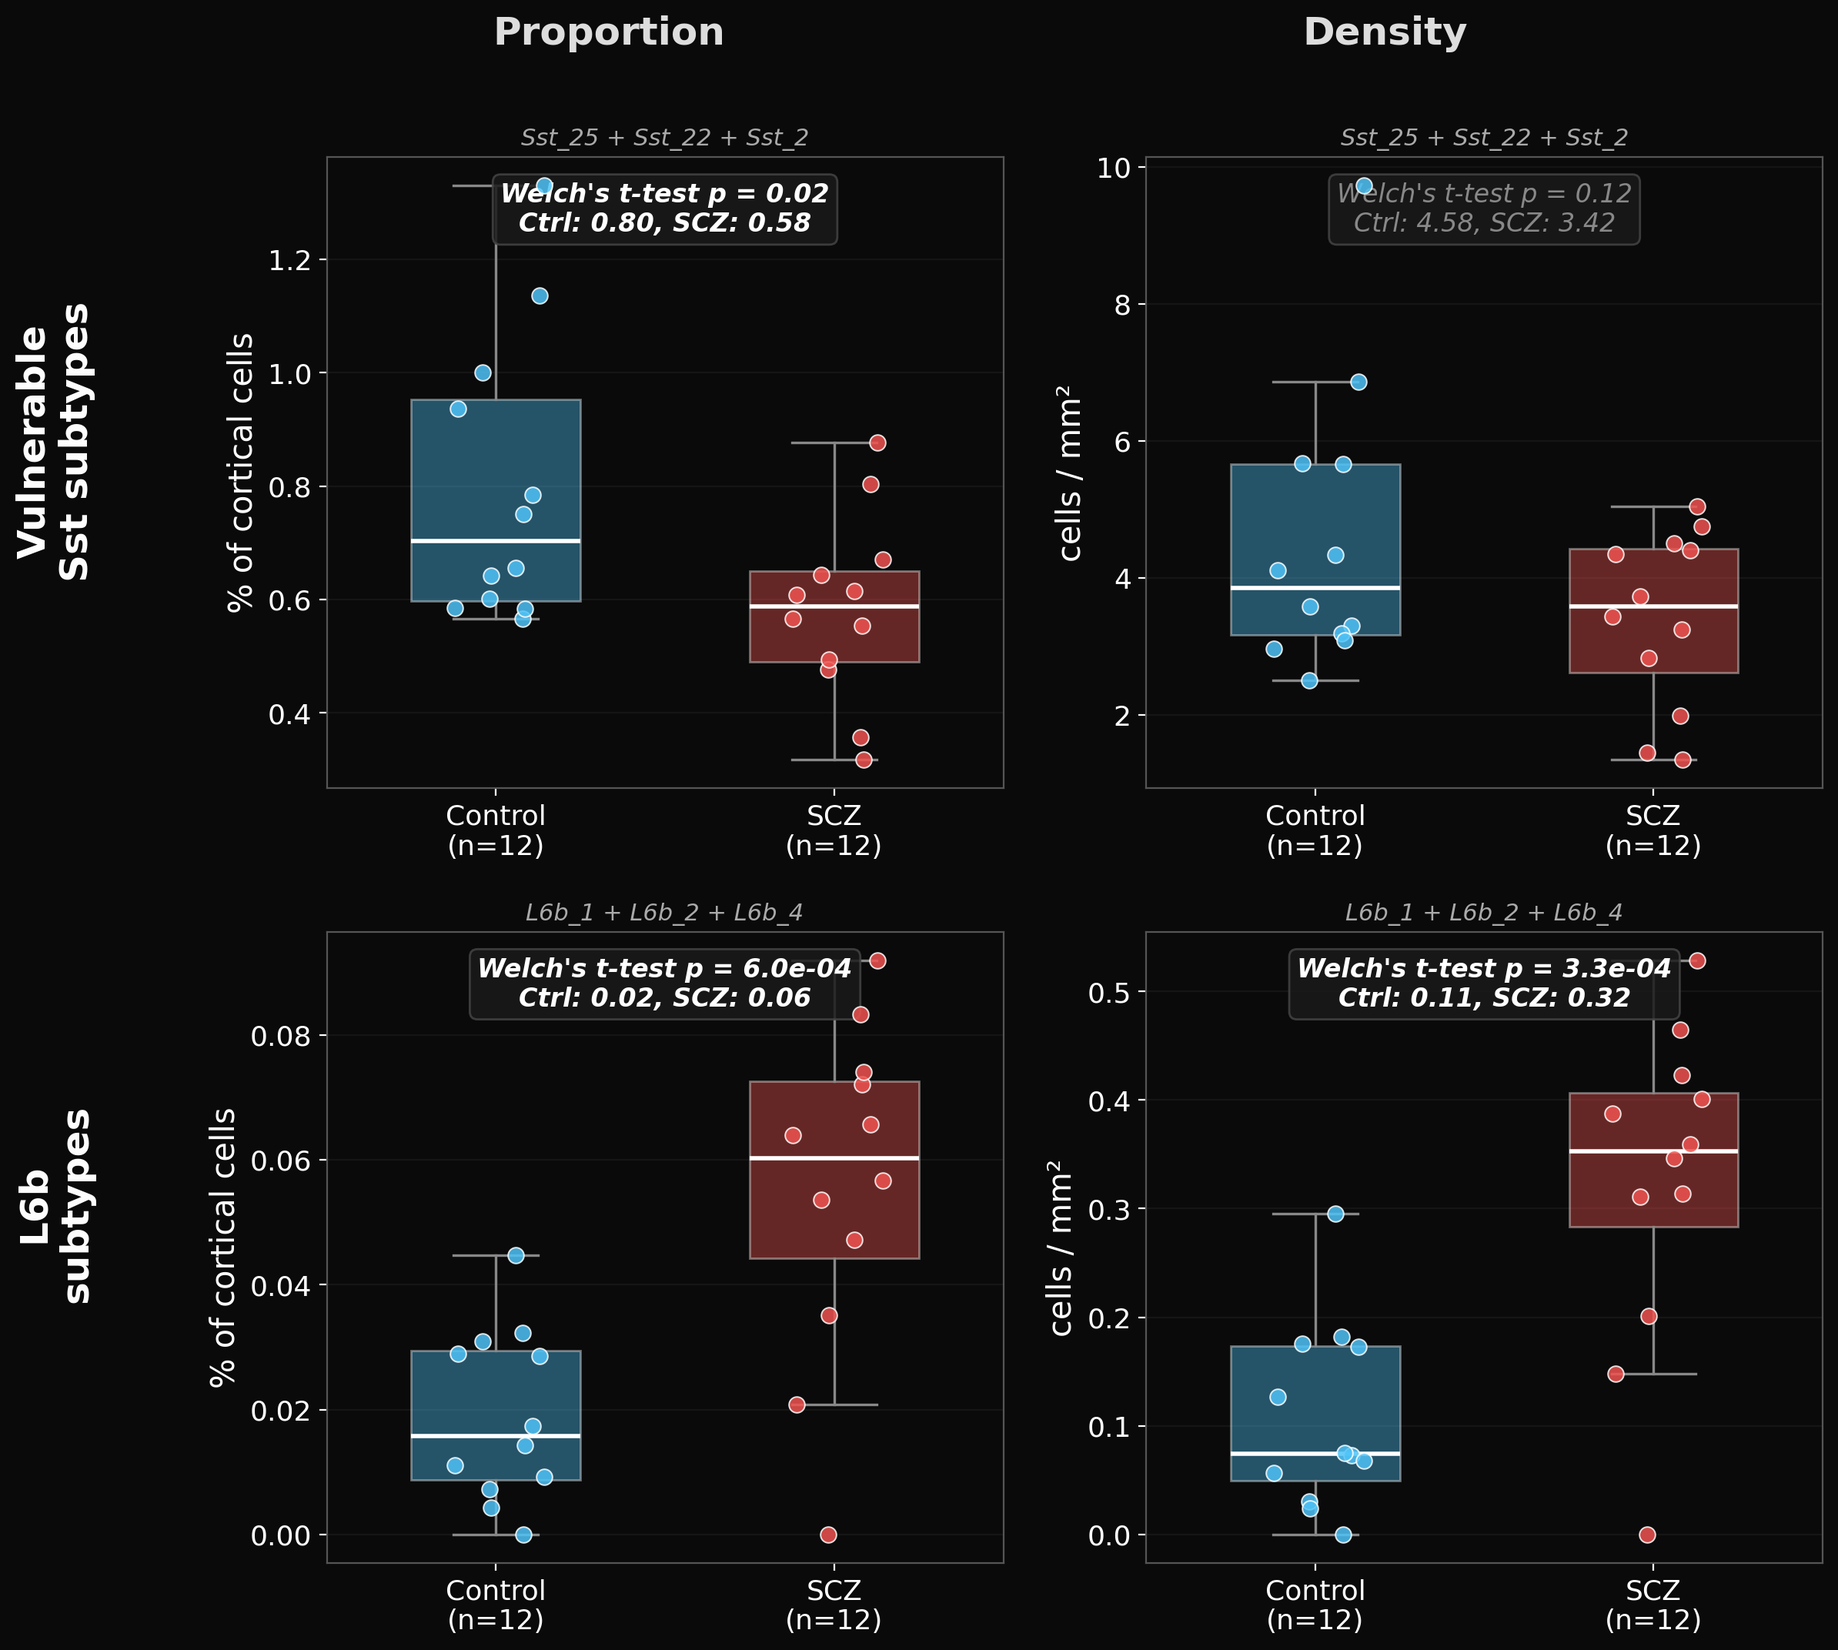
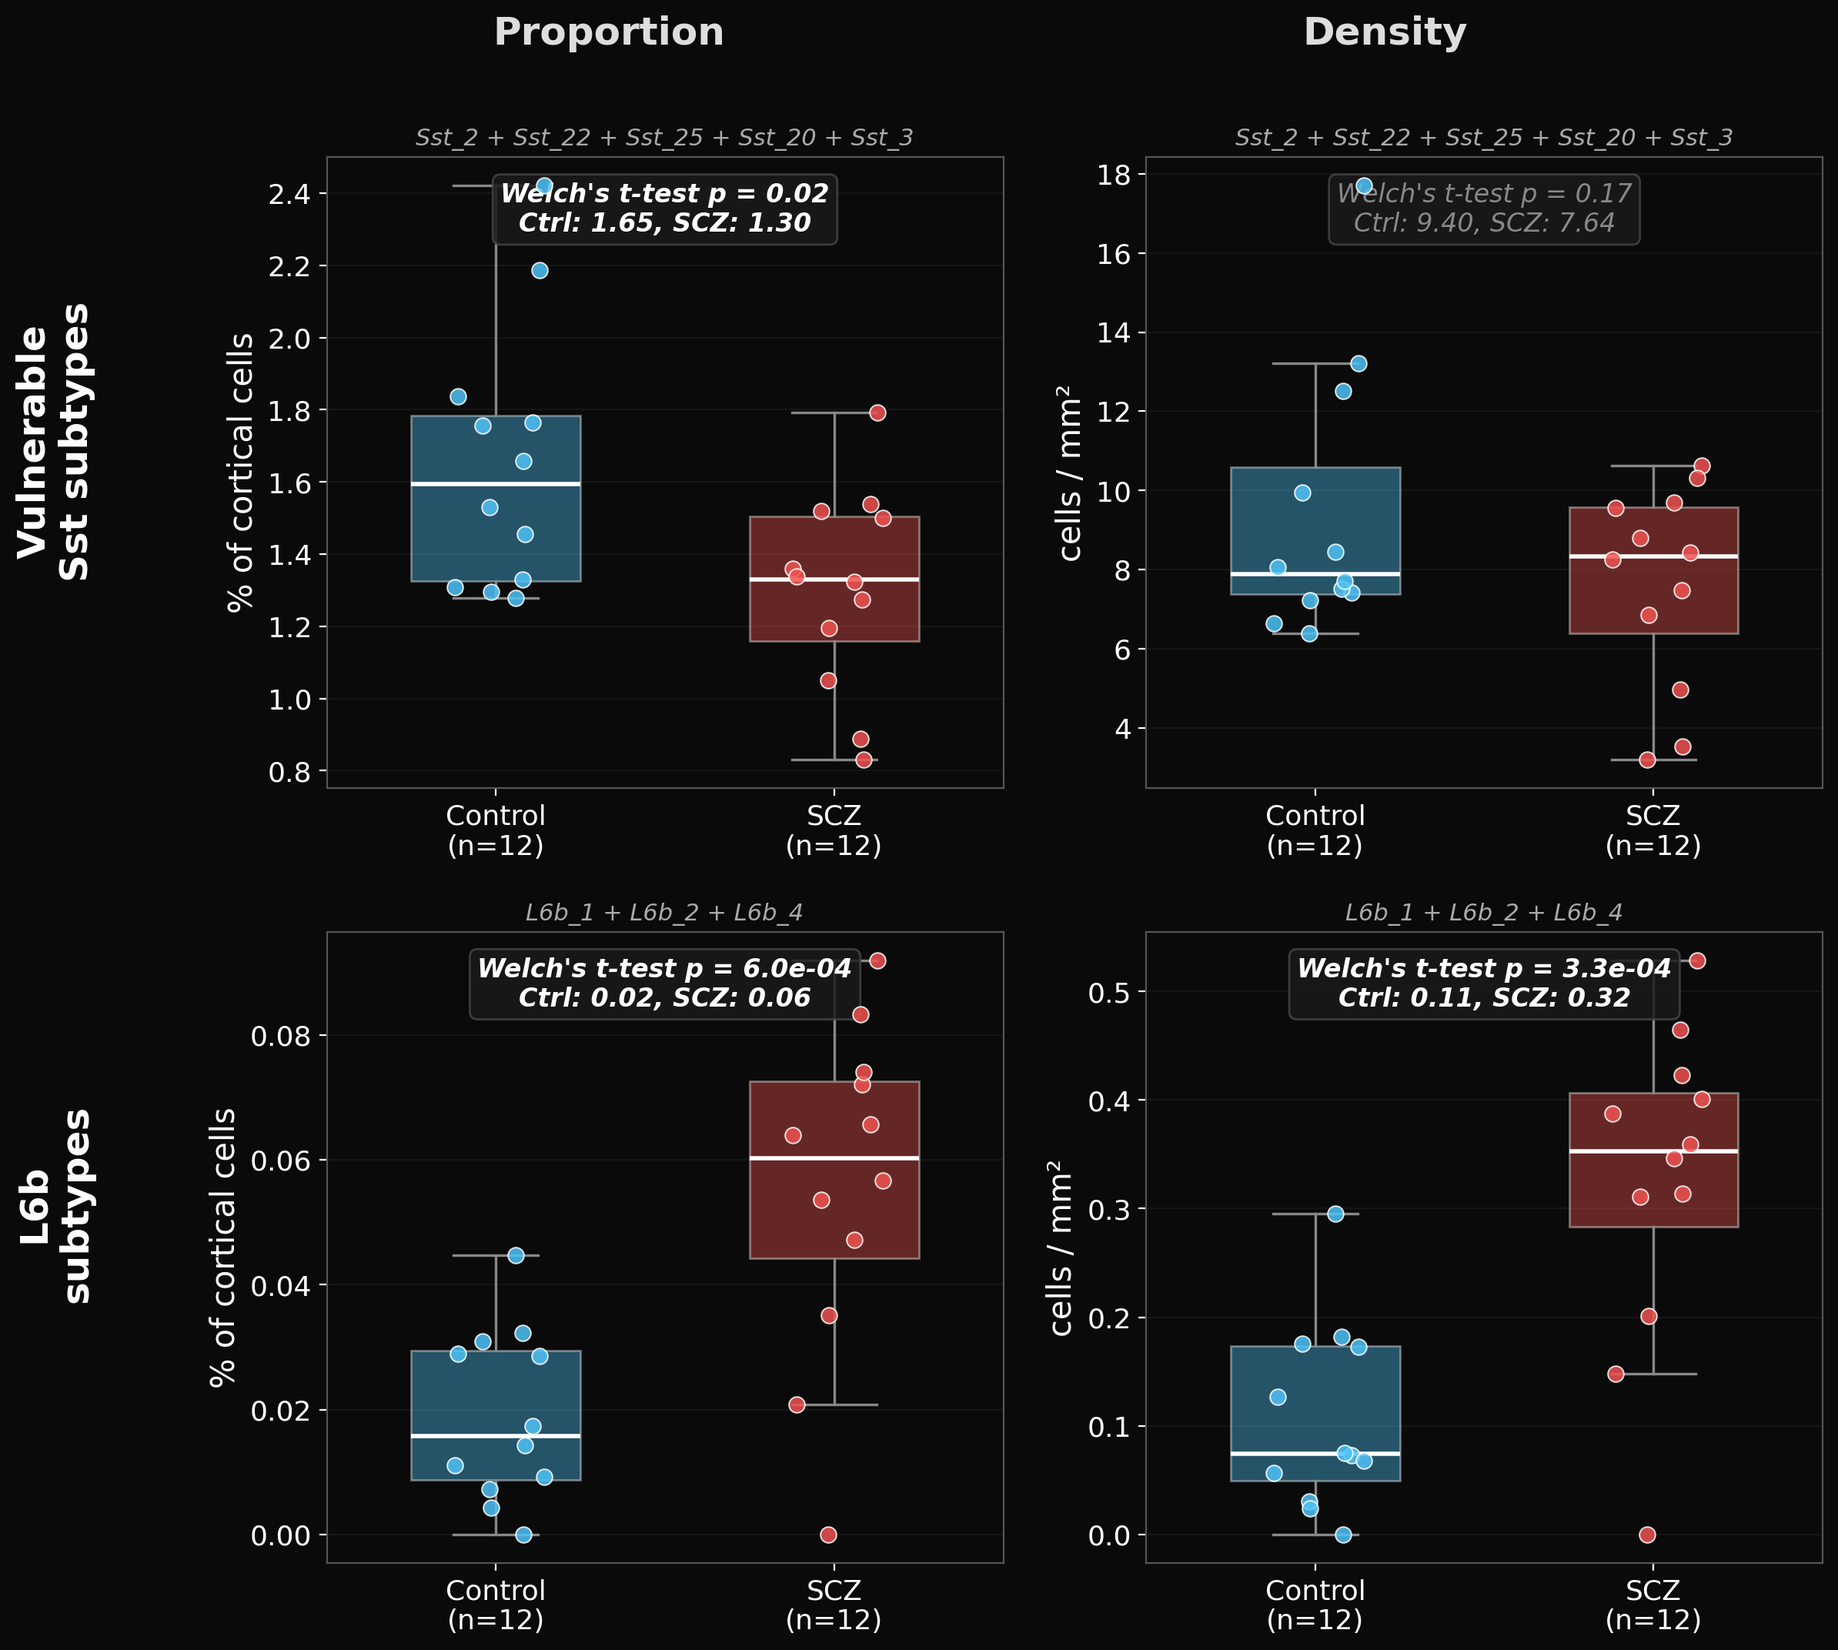
Add subclass density concordance plot and track all concordance figures
- New subclass-level snRNAseq vs Xenium density scatter (r=0.37 overall,
  r=0.65 neuronal, p=0.003) — stronger neuronal concordance than supertype
- Update aggregated boxplots to include all 5 vulnerable Sst subtypes
  (Sst_2 + Sst_22 + Sst_25 + Sst_20 + Sst_3)
- Track all figures referenced by cross_platform_concordance.md via
  gitignore exceptions (density, merfish_benchmark, root-level pngs)
- Insert subclass density section (2.1) before supertype results in
  concordance doc; renumber subsequent figures

diff --git a/code/analysis/plot_density_vs_snrnaseq_subclass.py b/code/analysis/plot_density_vs_snrnaseq_subclass.py
@@ -1,0 +1,218 @@
+#!/usr/bin/env python3
+"""
+Scatter plot: snRNAseq meta-analysis betas vs Xenium density log2FC at SUBCLASS level.
+
+Aggregates supertype-level data to subclass by summing densities, then computes
+logFC and correlates with aggregated snRNAseq betas (inverse-variance weighted).
+
+Input:
+  output/density_analysis/density_per_sample_supertype.csv
+  data/nicole_scz_snrnaseq_betas/scz_coefs.xlsx
+
+Output:
+  output/density_analysis/snrnaseq_vs_density_subclass.png
+  output/density_analysis/snrnaseq_vs_density_subclass.csv
+"""
+
+import os
+import sys
+import numpy as np
+import pandas as pd
+import matplotlib.pyplot as plt
+from scipy.stats import pearsonr, ttest_ind
+
+sys.path.insert(0, os.path.dirname(os.path.abspath(__file__)))
+from config import (
+    BASE_DIR, EXCLUDE_SAMPLES, INFER_CLASS_COLORS as CLASS_COLORS,
+    infer_class, BG_COLOR,
+)
+
+DENSITY_RAW = os.path.join(BASE_DIR, "output", "density_analysis",
+                            "density_per_sample_supertype.csv")
+NICOLE_PATH = os.path.join(BASE_DIR, "data", "nicole_scz_snrnaseq_betas",
+                            "scz_coefs.xlsx")
+OUTPUT_DIR = os.path.join(BASE_DIR, "output", "density_analysis")
+
+
+def supertype_to_subclass(st):
+    """Map supertype name to subclass by stripping trailing _N."""
+    # Handle multi-word supertypes like "L2/3 IT_1" -> "L2/3 IT"
+    # and "Sst Chodl_1" -> "Sst Chodl"
+    parts = st.rsplit("_", 1)
+    if len(parts) == 2 and parts[1].isdigit():
+        return parts[0]
+    return st
+
+
+def main():
+    # ── Load per-sample supertype densities ──
+    raw = pd.read_csv(DENSITY_RAW)
+    raw = raw[raw["region"] == "cortical"]
+    raw = raw[~raw["sample_id"].isin(EXCLUDE_SAMPLES)]
+    raw["subclass"] = raw["supertype"].apply(supertype_to_subclass)
+    print(f"Raw data: {len(raw)} rows, {raw['sample_id'].nunique()} samples, "
+          f"{raw['subclass'].nunique()} subclasses")
+
+    # Aggregate density to subclass level per sample
+    sub_density = (raw.groupby(["sample_id", "diagnosis", "subclass"])
+                   .agg(density_per_mm2=("density_per_mm2", "sum"),
+                        count=("count", "sum"),
+                        area_mm2=("area_mm2", "first"))
+                   .reset_index())
+
+    # Compute logFC per subclass
+    results = []
+    for sc in sorted(sub_density["subclass"].unique()):
+        sc_data = sub_density[sub_density["subclass"] == sc]
+        ctrl = sc_data[sc_data["diagnosis"] == "Control"]["density_per_mm2"]
+        scz = sc_data[sc_data["diagnosis"] == "SCZ"]["density_per_mm2"]
+
+        if len(ctrl) < 3 or len(scz) < 3:
+            continue
+
+        ctrl_mean = ctrl.mean()
+        scz_mean = scz.mean()
+        logFC = np.log(scz_mean / ctrl_mean) if ctrl_mean > 0 else np.nan
+
+        # Welch's t-test on log-transformed densities
+        _, pval = ttest_ind(np.log1p(ctrl), np.log1p(scz), equal_var=False)
+
+        # SE from log-scale pooled
+        log_vals = np.log1p(sc_data["density_per_mm2"])
+        se = log_vals.std() / np.sqrt(len(log_vals))
+
+        results.append({
+            "subclass": sc,
+            "ctrl_mean_density": ctrl_mean,
+            "scz_mean_density": scz_mean,
+            "logFC_density": logFC,
+            "pval_density": pval,
+            "se_density": se,
+            "n_ctrl": len(ctrl),
+            "n_scz": len(scz),
+            "class": infer_class(sc),
+        })
+
+    density_df = pd.DataFrame(results)
+    print(f"Density results: {len(density_df)} subclasses")
+
+    # ── Aggregate snRNAseq betas to subclass (inverse-variance weighted mean) ──
+    nicole = pd.read_excel(NICOLE_PATH)
+    nicole["subclass"] = nicole["CellType"].apply(supertype_to_subclass)
+    nicole["w"] = 1 / (nicole["se"] ** 2)
+
+    snrna_sub = []
+    for sc, grp in nicole.groupby("subclass"):
+        w = grp["w"].values
+        beta = grp["estimate"].values
+        se_vals = grp["se"].values
+
+        weighted_beta = np.average(beta, weights=w)
+        weighted_se = 1 / np.sqrt(w.sum())
+
+        # Fisher's method for combined p-value (or just use weighted z)
+        z = weighted_beta / weighted_se
+        from scipy.stats import norm
+        combined_p = 2 * norm.sf(abs(z))
+
+        snrna_sub.append({
+            "subclass": sc,
+            "beta_snrnaseq": weighted_beta,
+            "se_snrnaseq": weighted_se,
+            "pval_snrnaseq": combined_p,
+            "n_supertypes": len(grp),
+        })
+
+    snrna_df = pd.DataFrame(snrna_sub)
+    print(f"snRNAseq aggregated: {len(snrna_df)} subclasses")
+
+    # ── Merge ──
+    merged = pd.merge(snrna_df, density_df, on="subclass", how="inner")
+    print(f"Merged: {len(merged)} shared subclasses")
+
+    # Correlations
+    valid = merged["logFC_density"].notna() & merged["beta_snrnaseq"].notna()
+    m = merged[valid]
+    r_all, p_all = pearsonr(m["beta_snrnaseq"], m["logFC_density"])
+    neur = m[m["class"].isin(["Glut", "GABA"])]
+    r_neur, p_neur = pearsonr(neur["beta_snrnaseq"], neur["logFC_density"]) if len(neur) > 3 else (np.nan, np.nan)
+    print(f"All: r={r_all:.3f} (p={p_all:.1e}, n={len(m)})")
+    print(f"Neuronal: r={r_neur:.3f} (p={p_neur:.1e}, n={len(neur)})")
+
+    # ── Plot ──
+    fig, ax = plt.subplots(figsize=(9, 8))
+
+    for cls in ["Glut", "GABA", "NN", "Other"]:
+        mask = merged["class"] == cls
+        if mask.sum() == 0:
+            continue
+        sub = merged[mask]
+        ax.scatter(sub["beta_snrnaseq"], sub["logFC_density"],
+                   c=CLASS_COLORS[cls], s=100, alpha=0.8,
+                   label=f"{cls} (n={mask.sum()})",
+                   edgecolors="white", linewidth=0.8, zorder=5)
+
+    # Error bars
+    for _, row in merged.iterrows():
+        color = CLASS_COLORS[row["class"]]
+        # Horizontal (snRNAseq SE)
+        ax.plot([row["beta_snrnaseq"] - row["se_snrnaseq"],
+                 row["beta_snrnaseq"] + row["se_snrnaseq"]],
+                [row["logFC_density"], row["logFC_density"]],
+                color=color, alpha=0.25, linewidth=1.5, zorder=3)
+        # Vertical (density SE)
+        if pd.notna(row["se_density"]) and pd.notna(row["logFC_density"]):
+            ax.plot([row["beta_snrnaseq"], row["beta_snrnaseq"]],
+                    [row["logFC_density"] - row["se_density"],
+                     row["logFC_density"] + row["se_density"]],
+                    color=color, alpha=0.25, linewidth=1.5, zorder=3)
+
+    # Label ALL points (it's subclass level so there are few)
+    for _, row in merged.iterrows():
+        ax.annotate(row["subclass"],
+                    (row["beta_snrnaseq"], row["logFC_density"]),
+                    xytext=(7, 5), textcoords="offset points",
+                    fontsize=10, alpha=0.9, fontweight="bold")
+
+    ax.axhline(0, color="grey", alpha=0.3, linewidth=0.8)
+    ax.axvline(0, color="grey", alpha=0.3, linewidth=0.8)
+
+    # Regression line
+    z = np.polyfit(m["beta_snrnaseq"], m["logFC_density"], 1)
+    lim_x = max(abs(m["beta_snrnaseq"]).max(), 0.1) * 1.5
+    x_line = np.linspace(-lim_x, lim_x, 100)
+    ax.plot(x_line, np.polyval(z, x_line), "k-", alpha=0.3, linewidth=1.5)
+
+    ax.set_xlabel("snRNAseq meta-analysis beta (SCZ effect, weighted mean)",
+                  fontsize=14)
+    ax.set_ylabel("Xenium density logFC (SCZ vs Control)\n(cells/mm², cortical)",
+                  fontsize=14)
+    ax.set_title(
+        f"SCZ Subclass Effects: snRNAseq Meta-Analysis vs Xenium Density\n"
+        f"r = {r_all:.2f} (p = {p_all:.1e}) | n = {len(m)} subclasses",
+        fontsize=15, fontweight="bold"
+    )
+    ax.legend(fontsize=11, loc="lower right")
+    ax.tick_params(labelsize=12)
+
+    plt.tight_layout()
+    out_png = os.path.join(OUTPUT_DIR, "snrnaseq_vs_density_subclass.png")
+    plt.savefig(out_png, dpi=150)
+    plt.close()
+    print(f"\nSaved: {out_png}")
+
+    # Save CSV
+    out_csv = os.path.join(OUTPUT_DIR, "snrnaseq_vs_density_subclass.csv")
+    merged.to_csv(out_csv, index=False)
+    print(f"Saved: {out_csv}")
+
+    # Print all subclasses
+    print(f"\nAll subclasses (sorted by snRNAseq beta):")
+    for _, row in merged.sort_values("beta_snrnaseq").iterrows():
+        concordant = "✓" if (row["beta_snrnaseq"] * row["logFC_density"]) > 0 else "✗"
+        print(f"  {row['subclass']:20s} snRNA={row['beta_snrnaseq']:+.3f}  "
+              f"density={row['logFC_density']:+.3f}  {concordant}")
+
+
+if __name__ == "__main__":
+    main()

diff --git a/code/analysis/plot_aggregated_boxplots.py b/code/analysis/plot_aggregated_boxplots.py
@@ -109,8 +109,8 @@ def main():
     data = data[~data["sample_id"].isin(EXCLUDE_SAMPLES)]
     print(f"Loaded {len(data)} rows from {DATA_CSV} (after excluding {EXCLUDE_SAMPLES})")
 
-    # Aggregate — subset of SST types for the aggregated figure
-    sst_agg_types = ["Sst_25", "Sst_22", "Sst_2"]
+    # Aggregate — vulnerable Sst subtypes (includes Sst_3/Sst_20 confusion pair)
+    sst_agg_types = SST_TYPES  # ["Sst_2", "Sst_22", "Sst_25", "Sst_20", "Sst_3"]
     sst_prop = aggregate_group(data, sst_agg_types, "proportion_pct")
     sst_dens = aggregate_group(data, sst_agg_types, "density_per_mm2")
     l6b_prop = aggregate_group(data, L6B_TYPES, "proportion_pct")

diff --git a/cross_platform_concordance.md b/cross_platform_concordance.md
@@ -62,19 +62,32 @@ The correlation classifier achieves r = 0.81 against MERFISH proportions (Contro
 
 The critical question is not just whether Xenium measures cell types accurately, but whether the SCZ vs Control compositional differences it detects are real. We compared Xenium SCZ effect sizes against an independent snRNA-seq meta-analysis of schizophrenia (multiple cohorts, dissociation-based single-nucleus profiling).
 
-### 2.1 Supertype-level SCZ effect concordance
+### 2.1 Subclass-level SCZ effect concordance (density)
+
+At the subclass level, aggregated snRNAseq meta-analysis betas (inverse-variance weighted across supertypes) and Xenium density logFC correlate at **r = 0.37** (p = 0.079) across all 24 subclasses. Restricting to neuronal subclasses yields **r = 0.65** (p = 0.003, n = 18), indicating strong directional agreement for neurons:
+
+![snRNAseq vs Xenium density — subclass](output/density_analysis/snrnaseq_vs_density_subclass.png)
+*Figure 7: SCZ subclass effects — snRNAseq meta-analysis (x) vs Xenium density logFC (y). r = 0.37 overall, r = 0.65 neuronal (n = 24 subclasses). L6b, L6 CT, L5/6 NP, and L6 IT show the strongest concordant increases. Non-neuronal types (Endo, Micro-PVM, Astro, Oligo) are the main outliers, suggesting platform-specific biases in non-neuronal detection.*
+
+Notable observations:
+- **Deep-layer glutamatergic subclasses** (L6b, L6 CT, L6 IT, L5/6 NP) cluster in the upper-right quadrant — both platforms agree on their increase in SCZ
+- **Oligodendrocyte** shows a density decrease in Xenium (logFC = −0.24) despite a near-zero snRNAseq beta (+0.015), consistent with a spatial/structural effect not captured by dissociation-based profiling
+- **Endothelial** is the largest outlier — increased density in Xenium but near-zero snRNAseq effect — likely reflecting a vascular/structural change visible only in intact tissue
+- **Micro-PVM** shows a large density decrease in Xenium not reflected in snRNAseq, possibly due to Xenium detection biases for immune markers
+
+### 2.2 Supertype-level SCZ effect concordance
 
 Across 106 shared supertypes, Xenium spatial logFC and snRNA-seq meta-analysis beta values correlate at **r = 0.47** (p = 4.3 × 10⁻⁷) for all supertypes, and **r = 0.48** (p = 8.4 × 10⁻⁷) for neuronal supertypes only:
 
 ![snRNAseq vs Xenium composition](output/presentation/slide_snrnaseq_vs_xenium.png)
-*Figure 7: SCZ effect sizes — snRNA-seq meta-analysis (x) vs Xenium spatial compositional logFC (y). r = 0.47 across 106 supertypes. Labeled points highlight the largest concordant and discordant effects.*
+*Figure 8: SCZ effect sizes — snRNA-seq meta-analysis (x) vs Xenium spatial compositional logFC (y). r = 0.47 across 106 supertypes. Labeled points highlight the largest concordant and discordant effects.*
 
 When using cell density (cells/mm²) rather than compositional proportions, the concordance improves to **r = 0.54** (p = 3.3 × 10⁻⁹), suggesting that absolute density captures SCZ effects more faithfully than compositional analysis (which is subject to the zero-sum constraint):
 
 ![snRNAseq vs Xenium density](output/density_analysis/snrnaseq_vs_density_supertype.png)
-*Figure 8: SCZ effect sizes — snRNA-seq meta-analysis (x) vs Xenium spatial density logFC (y). r = 0.54, n = 106 supertypes. Density-based effects show stronger agreement than compositional effects.*
+*Figure 9: SCZ effect sizes — snRNA-seq meta-analysis (x) vs Xenium spatial density logFC (y). r = 0.54, n = 106 supertypes. Density-based effects show stronger agreement than compositional effects.*
 
-### 2.2 Concordant findings across platforms
+### 2.3 Concordant findings across platforms
 
 The following SCZ effects are detected independently by both Xenium spatial and snRNA-seq meta-analysis, providing the strongest evidence:
 
@@ -86,7 +99,7 @@ The following SCZ effects are detected independently by both Xenium spatial and 
 | L6b_1, L6b_2 | ↑ | ↑↑ | Concordant L6b increase |
 | L6 CT_1 | ↑ (β = +0.35) | ↑↑ (logFC = +0.63) | Concordant deep-layer increase |
 
-### 2.3 Discordant findings: classification artifacts
+### 2.4 Discordant findings: classification artifacts
 
 Some supertypes show **discordant** SCZ effects between platforms — where one shows an increase and the other a decrease. These are red flags for classification artifacts:
 
@@ -141,7 +154,7 @@ These show consistent trends but do not reach FDR significance in all analyses:
 - But L6b classification has known issues (7.2% still misplaced in upper layers)
 
 ![Aggregated supertype effects](output/presentation/slide_aggregated_boxplots.png)
-*Figure 9: Aggregated supertype effects for vulnerable Sst subtypes (top) and L6b subtypes (bottom). Sst depletion: proportion p = 0.02, density p = 0.12. L6b increase: proportion p = 6 × 10⁻⁴, density p = 3.3 × 10⁻⁴.*
+*Figure 10: Aggregated supertype effects for vulnerable Sst subtypes (Sst_2 + Sst_22 + Sst_25 + Sst_20 + Sst_3, top) and L6b subtypes (bottom). Sst depletion: proportion p = 0.02, density p = 0.17. L6b increase: proportion p = 6 × 10⁻⁴, density p = 3.3 × 10⁻⁴.*
 
 ### 3.3 Findings that require caution (supertype level)
 
@@ -162,10 +175,10 @@ These should be interpreted carefully due to classification limitations:
 - Subclass-level conclusions (Oligodendrocyte depleted, Astrocyte trending) are safer than supertype-level ones
 
 ![Xenium SCZ effects — proportion boxplots](output/presentation/slide_xenium_proportion_boxplots.png)
-*Figure 10: Top supertype SCZ effects (proportions). Top row: Sst subtypes. Bottom row: L6b and deep-layer subtypes. Crumblr p-values adjusted for age and sex.*
+*Figure 11: Top supertype SCZ effects (proportions). Top row: Sst subtypes. Bottom row: L6b and deep-layer subtypes. Crumblr p-values adjusted for age and sex.*
 
 ![Xenium SCZ effects — density boxplots](output/presentation/slide_xenium_density_boxplots.png)
-*Figure 11: Same supertypes, density (cells/mm²). Density effects tend to be larger and more consistent than compositional effects.*
+*Figure 12: Same supertypes, density (cells/mm²). Density effects tend to be larger and more consistent than compositional effects.*
 
 ---
 
